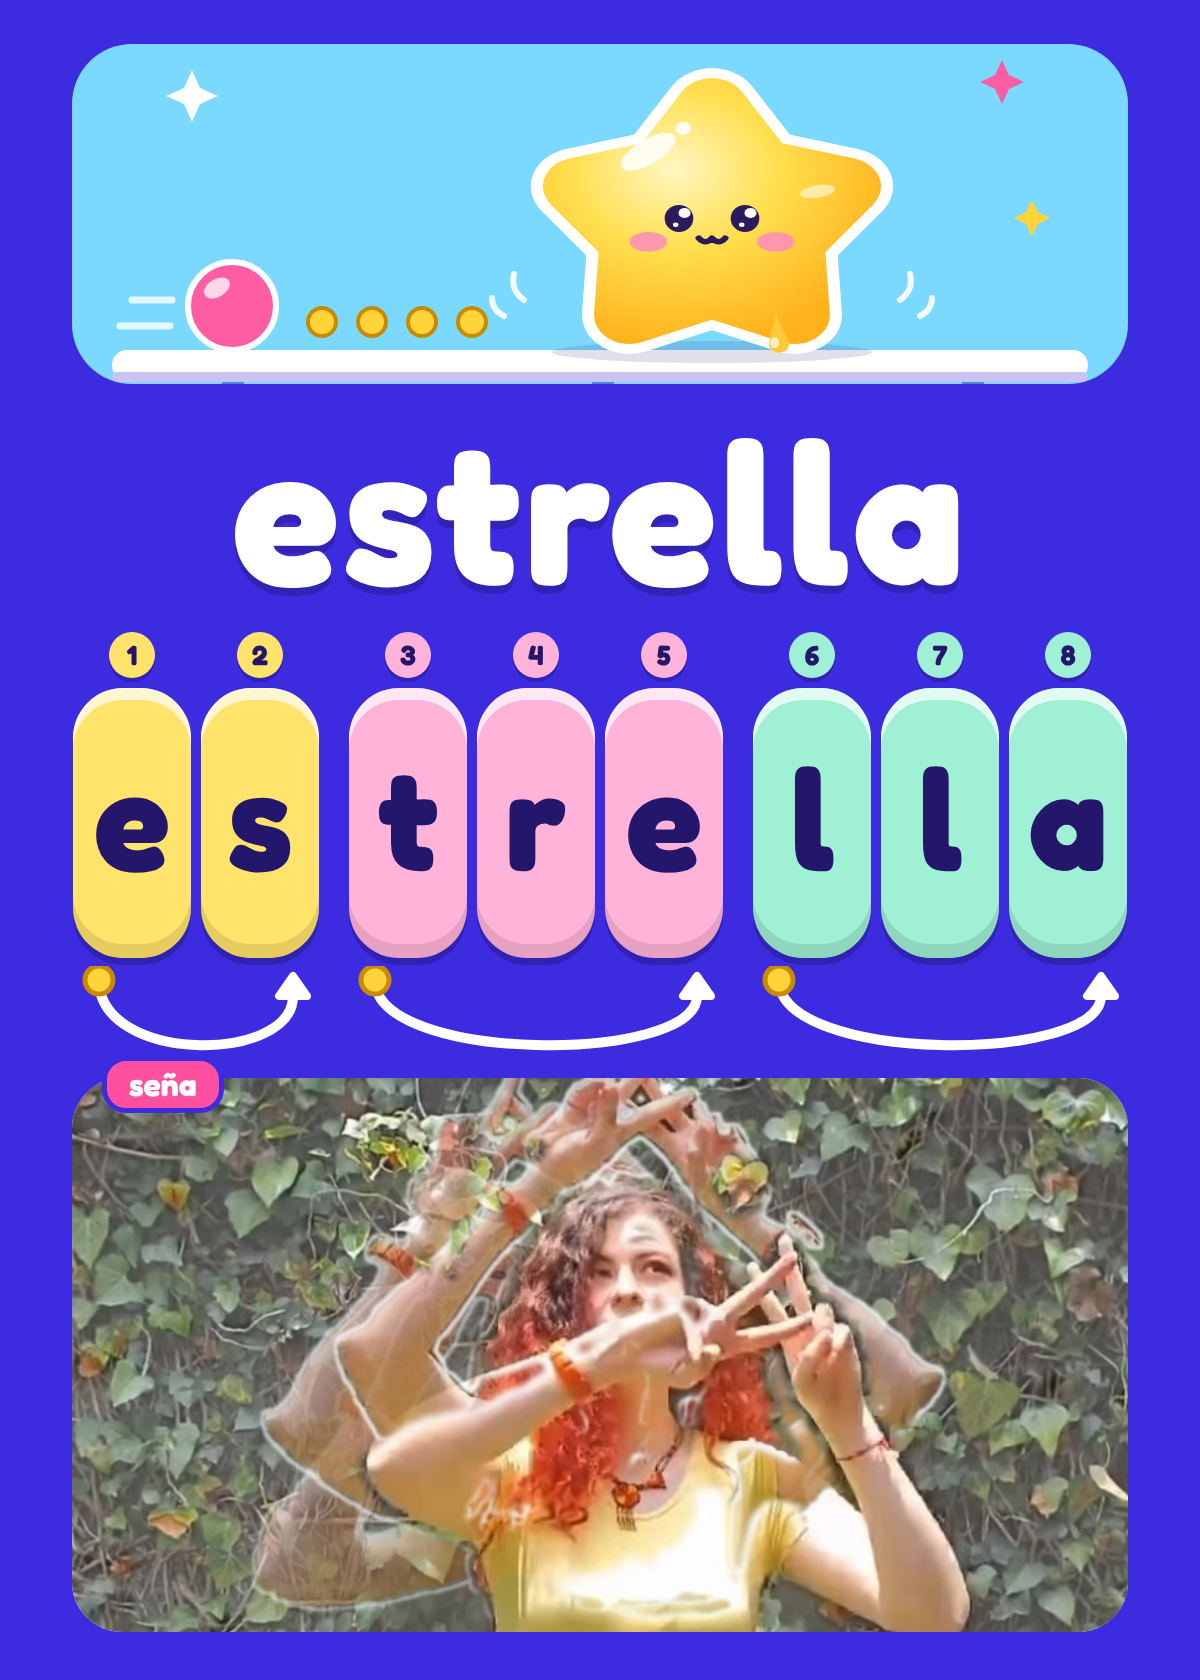
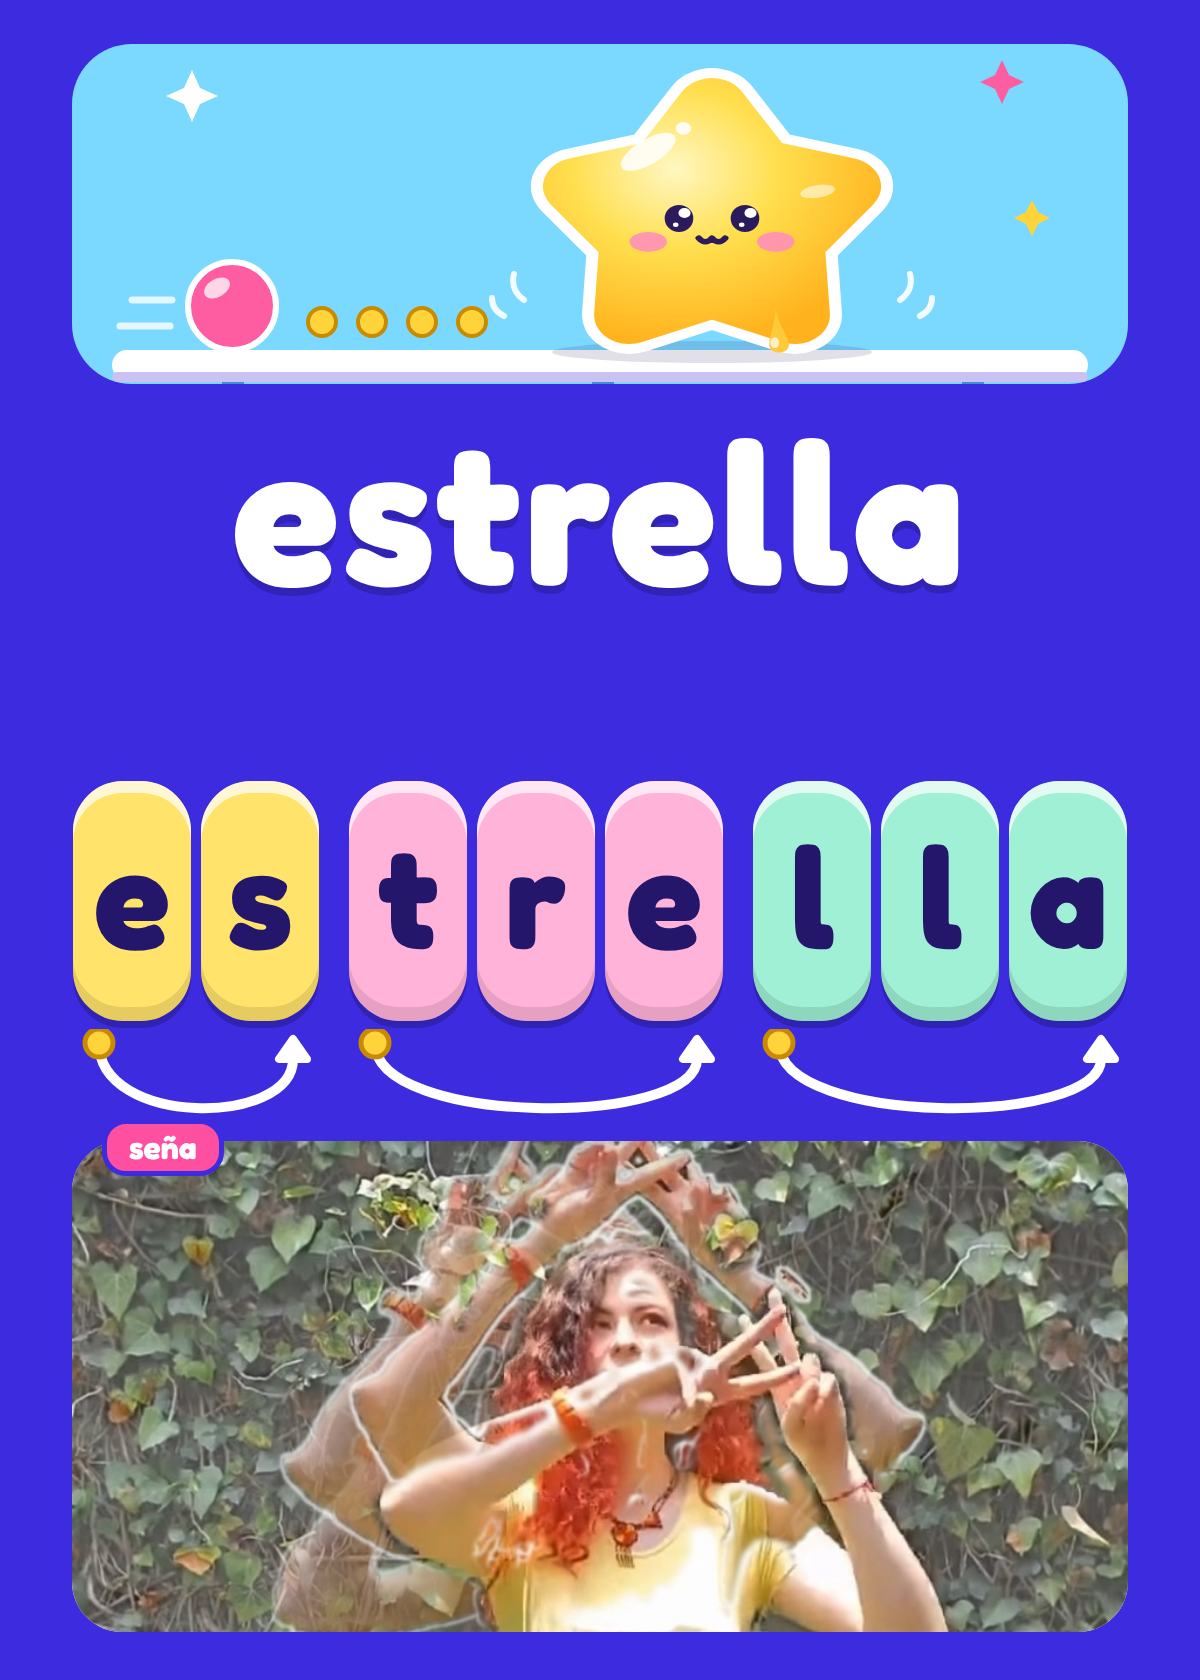
Preparar stickers LSM por letra encima de las fichas, con movimiento en gris para ll/rr/ch
Claude-Session: https://claude.ai/code/session_015Bpbc8EAm3Wz5jihEE32WP

diff --git a/generar.js b/generar.js
@@ -54,16 +54,36 @@ function arco(w, color = '#fff') {
 }
 
 // ---------- FRENTE ----------
+// Sticker de la mano LSM de una letra (abecedario/<letra>.png|.jpg|.webp), o null si falta.
+const faltantes = new Set();
+function sticker(l) {
+  const f = ['png', 'webp', 'jpg'].map((e) => `abecedario/${l}.${e}`).find(existe);
+  if (!f) faltantes.add(l);
+  return f || null;
+}
+// Dígrafos que en español suenan como una sola letra: llevan "movimiento" entre sus dos stickers.
+const DIGRAFOS = ['ll', 'rr', 'ch'];
+
 function frente(t, c) {
   const { ancho, gapL, gapS } = medidas(t.silabas);
   const fuente = Math.round(ancho * 1.2);
-  let num = 0;
+  const mano = Math.round(ancho * .92);
+  const paso = ancho + gapL; // distancia entre centros de dos letras seguidas
   const columnas = t.silabas.map((s, i) => {
     const color = c.silabas[i % c.silabas.length];
-    const cols = [...s].map((l) => {
-      num++;
+    const ls = [...s];
+    const cols = ls.map((l, k) => {
+      const f = sticker(l);
+      const dig = DIGRAFOS.includes((l + (ls[k + 1] || '')).toLowerCase());
+      // movimiento: copias en gris, cada vez más tenues, entre los dos stickers del dígrafo + arco que los une
+      const mov = dig && f ? [1 / 3, 2 / 3].map((fr, j) =>
+        `<img class="fantasma" src="${img(f)}" style="width:${mano}px;left:${ancho / 2 + paso * fr - mano / 2}px;opacity:${j ? .28 : .45}">`).join('')
+        + `<svg class="liga" width="${paso + 20}" height="40" style="left:${ancho / 2 - 10}px" viewBox="0 0 ${paso + 20} 40">
+            <path d="M10 34 C10 4 ${paso + 10} 4 ${paso + 10} 34" fill="none" stroke="#fff" stroke-width="7" stroke-linecap="round" stroke-dasharray="2 13"/></svg>` : '';
+      const arriba = f ? `<img class="mano" src="${img(f)}" style="width:${mano}px;height:${mano}px">`
+                       : `<div class="mano" style="width:${mano}px;height:${mano}px"></div>`;
       return `<div class="col" style="width:${ancho}px">
-        <div class="num" style="background:${color}">${num}</div>
+        <div class="manos" style="height:${mano + 30}px">${mov}${arriba}</div>
         <div class="ficha" style="background:${color};font-size:${fuente}px">${esc(l)}</div></div>`;
     }).join('');
     const w = s.length * ancho + (s.length - 1) * gapL;
@@ -86,9 +106,11 @@ function frente(t, c) {
   .silaba { display:flex; flex-direction:column; align-items:center; gap:8px; }
   .cols { display:flex; }
   .col { display:flex; flex-direction:column; align-items:center; gap:10px; }
-  .num { width:46px; height:46px; border-radius:50%; font-weight:700; font-size:28px; display:flex; align-items:center;
-         justify-content:center; box-shadow:0 4px 0 rgba(0,0,0,.2); }
-  .ficha { width:100%; height:270px; border-radius:50px; display:flex; align-items:center; justify-content:center;
+  .manos { position:relative; width:100%; display:flex; align-items:flex-end; justify-content:center; }
+  .mano { display:block; object-fit:contain; position:relative; z-index:2; filter:drop-shadow(0 4px 0 rgba(0,0,0,.18)); }
+  .fantasma { position:absolute; bottom:0; z-index:1; filter:grayscale(1); }
+  .liga { position:absolute; top:-6px; z-index:3; overflow:visible; }
+  .ficha { width:100%; height:240px; border-radius:50px; display:flex; align-items:center; justify-content:center;
            font-weight:700; padding-bottom:10px;
            box-shadow: inset 0 -14px 0 rgba(0,0,0,.10), inset 0 12px 0 rgba(255,255,255,.7), 0 7px 0 rgba(0,0,0,.2); }
                  display:flex; flex-direction:column; align-items:center; justify-content:center; color:#fff; line-height:1; }
@@ -215,4 +237,5 @@ function reverso(t, c) {
     console.log('Creada:', path.relative(RAIZ, salida));
   }
   await browser.close();
+  if (faltantes.size) console.log('Faltan stickers LSM en abecedario/ para:', [...faltantes].join(', '));
 })();

diff --git a/CLAUDE.md b/CLAUDE.md
@@ -35,7 +35,8 @@ Este repositorio guarda tarjetas para que Valeria aprenda el **código escrito**
   2. **ordena**: casillas numeradas y las letras revueltas (se pueden recortar o señalar).
   3. **completa**: la palabra con dos letras faltantes.
   4. **muévete**: un salto de tijera por sílaba, diciendo o señando cada una.
-- **Sin dactilología por ahora**: el usuario pidió quitar los recuadros de letras en LSM debajo de las fichas. No los agregues a menos que lo pida.
+- **Manos LSM (dactilología) encima de cada letra**: un sticker en miniatura por letra, tomado de `abecedario/<letra>.png` (los stickers los manda el usuario; **no inventes configuraciones**). `generar.js` avisa qué stickers faltan.
+  - **Dígrafos (ll, rr, ch)**: cada letra lleva su sticker y, entre los dos, copias del sticker en **escala de grises** y cada vez más tenues simulan el movimiento; un arco punteado arriba los une para mostrar que suenan como una sola letra.
 - La versión anterior está en `plantilla/generar-v1.js` y `tarjetas/anteriores/`.
 
 ## Reglas de diseño (aplícalas a TODAS las tarjetas)
@@ -64,7 +65,7 @@ Este repositorio guarda tarjetas para que Valeria aprenda el **código escrito**
    - **Estilo squishy / slime para el objeto principal** (a Valeria le encantan las cosas suaves): formas gorditas con las puntas redondeadas, un poco aplastadas como si se hundieran por su peso, un degradado brillante tipo gel, brillos blancos grandes, una sombra suave debajo, alguna gotita de slime y líneas de "squish" a los lados. Carita kawaii con ojos grandes y brillantes. Ejemplo: la estrella de `escenas/estrella.svg`.
 5. **La palabra** va en minúsculas, en letra redonda (Fredoka), blanca y muy grande.
 6. **Fichas por letra, agrupadas por sílaba**, tipo squishy: redondas, con brillo arriba y sombra abajo. Cada sílaba tiene su color y hay más espacio entre sílabas. **Debajo de cada sílaba va un arco en forma de "U"** (como un puente invertido), que empieza en una monedita y termina en una flecha. Se recorre con el dedo **de izquierda a derecha** mientras se pronuncia la sílaba, para ensayar cómo suena. Separa las sílabas correctamente en español.
-7. **Orden de las letras**: cada letra lleva su número de posición arriba. **No pongas paneles de conteo ni ejercicios de números**: el usuario quiere trabajar los números aparte.
+7. **Orden de las letras**: de izquierda a derecha, cada letra con su mano LSM arriba (sin números). **No pongas paneles de conteo ni ejercicios de números**: el usuario quiere trabajar los números aparte.
 8. **Panel "seña"**: abajo, a todo lo ancho. **No inventes la forma de una seña.** Si no hay referencia, deja `"sena"` fuera del JSON y aparece "seña pendiente".
    - **Preferido: foto real empalmada** (así lo pidió el usuario). Pide un **video corto** de la seña y ejecuta `python3 plantilla/empalmar.py VIDEO senas/<palabra>-foto.jpg --cuadros 1,a,b,c,d --recorte x0,y0,x1,y1`. El primer cuadro (el inicio) queda **nítido**; los siguientes se enciman con **transparencia progresiva** (cada vez más transparentes) para mostrar el recorrido. Elige los cuadros revisando una hoja de contactos del video (ffmpeg). Recorta horizontal (más o menos 2 de ancho por 1 de alto), dejando ver todo el recorrido de las manos. Las fotos llenan el panel completo.
    - Si solo hay fotos sueltas, empálmalas igual (el inicio nítido y las demás transparentes) o pregunta.
@@ -81,6 +82,7 @@ tarjetas/<palabra>-frente.png / -reverso.png   tarjeta terminada (se genera, no 
 escenas/<palabra>.svg     dibujo del panel de arriba, 1056 × 400 (viewBox 1056 × 428 también sirve)
 senas/<palabra>-foto.jpg  seña LSM: foto real empalmada (inicio nítido y movimiento transparente)
 senas/<palabra>.svg       (respaldo) dibujo de la seña
+abecedario/<letra>.png    sticker de la mano LSM de cada letra (del usuario)
 plantilla/empalmar.py     empalma cuadros de un video en una sola foto
 plantilla/fuentes/        fuente Fredoka (no requiere internet)
 generar.js                arma las dos caras: node generar.js tarjetas/<palabra>.json
